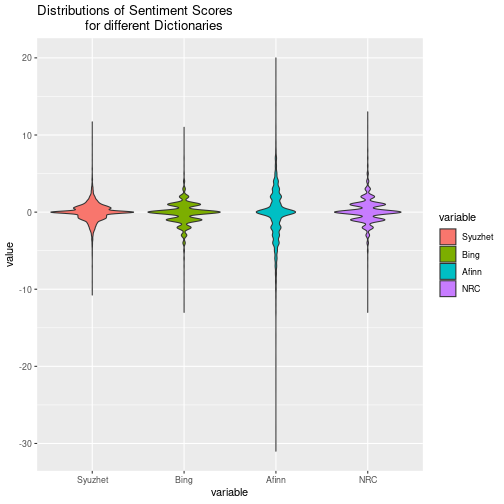
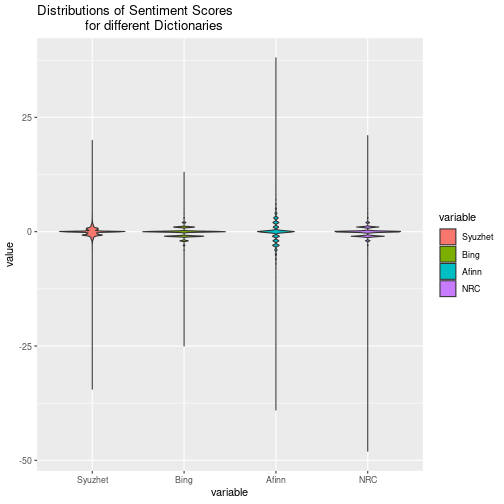
Adapted B2 to emoji

diff --git a/slides/B2_Sentiment_Analysis_of_User_Comments/B2_Sentiment_Analysis_of_User_Comments.html b/slides/B2_Sentiment_Analysis_of_User_Comments/B2_Sentiment_Analysis_of_User_Comments.html
@@ -103,16 +103,16 @@ lexicon::hash_sentiment_jockers[sample(1:10738,10),]
 
 ```
 ##                x     y
-##  1:    liability -0.50
-##  2:       eroded -0.60
-##  3:      nemesis -1.00
-##  4:       robber -0.50
-##  5:       matted -0.40
-##  6: rediscovered  0.25
-##  7:     unbelief -0.60
-##  8:     flexible  0.60
-##  9:     exhausts -0.80
-## 10:    ultimatum -0.50
+##  1:    affronted -1.00
+##  2:      digress -0.25
+##  3:        caged -0.80
+##  4:       gospel  0.10
+##  5:         yowl -0.40
+##  6:   implicated -0.25
+##  7: breakthrough  0.50
+##  8:   xenophobia -0.25
+##  9:     spoonfed -0.25
+## 10:      welcome  0.50
 ```
 
 ---
@@ -163,7 +163,7 @@ First of all, we load our preprocessed comments and try out the build in basic s
 
 ```r
 # loading data
-comments &lt;- readRDS("../../data/ParsedComments.rds")
+comments &lt;- readRDS("../../data/ParsedEmojiComments.rds")
 
 # loading package
 library(syuzhet)
@@ -192,7 +192,7 @@ summary(BasicSentiment)
 
 ```
 ##      Min.   1st Qu.    Median      Mean   3rd Qu.      Max. 
-## -10.75000  -0.50000   0.00000  -0.01116   0.60000  11.70000
+## -34.45000  -0.50000   0.00000  -0.07408   0.25000  19.95000
 ```
 
 Checking the documentation of the `get_sentiment()` function reveals that it can take different _methods_ as arguments. These methods correspond to different dictionaries and might yield different results. The function also allows to use a custom dictionary by providing a dataframe to the _lexicon_ argument
@@ -250,10 +250,10 @@ cor(Sentiments[,c(-5)])
 
 ```
 ##           Syuzhet      Bing     Afinn       NRC
-## Syuzhet 1.0000000 0.7501405 0.7421081 0.6528393
-## Bing    0.7501405 1.0000000 0.6706855 0.4647964
-## Afinn   0.7421081 0.6706855 1.0000000 0.4333834
-## NRC     0.6528393 0.4647964 0.4333834 1.0000000
+## Syuzhet 1.0000000 0.7932955 0.7529259 0.6997754
+## Bing    0.7932955 1.0000000 0.7142517 0.5828193
+## Afinn   0.7529259 0.7142517 1.0000000 0.5075283
+## NRC     0.6997754 0.5828193 0.5075283 1.0000000
 ```
 
 ---
@@ -500,11 +500,72 @@ strwrap(comments[order(comments$SentiDiff),c(2)][1:5],79)
 ```
 
 ```
-## [1] "@CottonCatt I wish"                                               
-## [2] "@SuddenReal Yeah but 'no' would be a real protest to the question"
-## [3] "Ive DEFINITELY had a group poop nightmare 😬"                     
-## [4] "Margarita M. Ugh I wish hahah"                                    
-## [5] "3:35 wtf? 😂😂😂"
+##  [1] "CRINGE CRINGE CRINGE CRINGE CRINGE CRINGE CRINGE CRINGE CRINGE CRINGE CRINGE"  
+##  [2] "CRINGE CRINGE CRINGE CRINGE CRINGE CRINGE CRINGE CRINGE CRINGE CRINGE CRINGE"  
+##  [3] "CRINGE CRINGE CRINGE CRINGE CRINGE CRINGE CRINGE CRINGE CRINGE CRINGE CRINGE"  
+##  [4] "CRINGE CRINGE CRINGE CRINGE CRINGE CRINGE CRINGE CRINGE CRINGE CRINGE CRINGE"  
+##  [5] "CRINGE CRINGE CRINGE CRINGE CRINGE CRINGE CRINGE CRINGE CRINGE CRINGE CRINGE"  
+##  [6] "CRINGE CRINGE CRINGE CRINGE CRINGE CRINGE CRINGE CRINGE CRINGE CRINGE CRINGE"  
+##  [7] "CRINGE CRINGE CRINGE CRINGE CRINGE CRINGE CRINGE CRINGE CRINGE CRINGE CRINGE"  
+##  [8] "CRINGE CRINGE CRINGE CRINGE CRINGE CRINGE CRINGE CRINGE CRINGE CRINGE CRINGE"  
+##  [9] "CRINGE CRINGE CRINGE CRINGE CRINGE CRINGE CRINGE CRINGE CRINGE CRINGE CRINGE"  
+## [10] "CRINGE"                                                                        
+## [11] "CRINGE CRINGE CRINGE CRINGE CRINGE CRINGE CRINGE CRINGE CRINGE CRINGE CRINGE"  
+## [12] "CRINGE CRINGE CRINGE CRINGE CRINGE CRINGE CRINGE CRINGE CRINGE CRINGE CRINGE"  
+## [13] "CRINGE CRINGE CRINGE CRINGE CRINGE CRINGE CRINGE CRINGE CRINGE CRINGE CRINGE"  
+## [14] "CRINGE CRINGE CRINGE CRINGE CRINGE CRINGE CRINGE CRINGE CRINGE CRINGE CRINGE"  
+## [15] "CRINGE CRINGE CRINGE CRINGE CRINGE I need some clorox"                         
+## [16] "This trailer gave me: Achondroplasia, Acne, AIDS, Albinism, Alcoholic"         
+## [17] "hepatitis, Allergy, Alopecia, Alzheimer's disease, Amblyopia, Amebiasis,"      
+## [18] "Anemia, Aneurdu, Anorexia, Anosmia, Anotia, Anthrax, Appendicitis, Apraxia,"   
+## [19] "Argyria, Arthritis, Aseptic meningitis, Asthenia, Asthma, Astigmatism,"        
+## [20] "Atherosclerosis, Athetosis, Atrophy, Bacterial meningitis, Barack Obama"       
+## [21] "syndrome, Beriberi, Biebertitis, Black Death, Botulism, Breast cancer,"        
+## [22] "Bronchitis, Brucellosis, Bubonic plague, Bunion, Bella killer, Calculi,"       
+## [23] "Campylobacter infection, Cancer, Candidiasis, Carbon monoxide poisoning,"      
+## [24] "Celiacs disease, Cerebral palsy, Chagas disease, Chalazion, Chancroid, Chavia,"
+## [25] "Cherubism, Chickenpox, Chlamydia, Chlamydia trachomatis, Cholera, Chordoma,"   
+## [26] "Chorea, Chronic fatigue syndrome, Circadian rhythm sleep disorder,"            
+## [27] "Coccidioidomycosis, Colitis, Common cold, Condyloma, Congestive heart disease,"
+## [28] "Coronary heart disease, Cowpox, Cretinism, Crohn's Disease, Dengue, Diabetes"  
+## [29] "mellitus, Diphtheria, Diarrhoea, Dehydration, Ear infection, Ebola,"           
+## [30] "Encephalitis, Emphysema, Epilepsy, Erectile dysfunction, Foodborne illness,"   
+## [31] "Gangrene, Gastroenteritis, Genital herpes, GERD, Goitre, Gonorrhea, Heart"     
+## [32] "disease, Hepatitis A, Hepatitis B, Hepatitis C, Hepatitis D, Hepatitis E,"     
+## [33] "Hepatitis F (Childhood Herpes), Histiocytosis (Childhood Cancer), HIV, Human"  
+## [34] "papillomavirus, Huntington's disease, Hypermetropia, Hyperopia,"               
+## [35] "Hyperthyroidism, Hypothermia, Hypothyroid, Hypotonia, Impetigo, Infertility,"  
+## [36] "Influenza, Interstitial cystitis, Iritis, Iron-deficiency anemia, Irritable"   
+## [37] "bowel syndrome, Ignious Syndrome, Jaundice, Keloids, Kuru, Kwashiorkor,"       
+## [38] "Laryngitis, Lead poisoning, Leaking scrotum syndrome, Legionellosis,"          
+## [39] "Leishmaniasis, Leprosy, Leptospirosis, Listeriosis, Leukemia, Lice, Loiasis,"  
+## [40] "Lung cancer, Lupus erythematosus, Lyme disease, Lymphogranuloma venereum,"     
+## [41] "Lymphoma, Malaria, Marburg fever, Measles, Melanoma, Melioidosis, Metastatic"  
+## [42] "cancer, Ménière's disease, Meningitis, Migraine, Mononucleosis, Multiple"      
+## [43] "myeloma, Multiple sclerosis, Mumps, Muscular dystrophy, Myasthenia gravis,"    
+## [44] "Myelitis, Myoclonus, Myopia, Myxedema, Morquio Syndrome, Mattticular syndrome,"
+## [45] "Neoplasm, Non-gonococcal urethritis, Necrotizing Fasciitis, Night blindness,"  
+## [46] "Obesity, One Infection, Osteoarthritis, Osteoporosis, Otitis, Palindromic"     
+## [47] "rheumatism, Paratyphoid fever, Parkinson's disease, Pelvic inflammatory"       
+## [48] "disease, Peritonitis, Periodontal disease, Pertussis, Phenylketonuria, Plague,"
+## [49] "Poliomyelitis, Porphyria, Progeria, Prostatitis, Psittacosis, Psoriasis, Pubic"
+## [50] "lice, Pulmonary embolism, Pilia, Q fever, Ques fever, Rabies, Repetitive"      
+## [51] "strain injury, Rheumatic fever, Rheumatic heart, Rheumatism, Rheumatoid"       
+## [52] "arthritis, Rickets, Rift Valley fever, Rocky Mountain spotted fever, Rubella," 
+## [53] "Salmonellosis, Sandy vagina, Scabies, Scarlet fever, Sciatica, Scleroderma,"   
+## [54] "Scrapie, Scurvy, Sepsis, Septicemia, SARS, Shigellosis, Shin splints,"         
+## [55] "Shingles, Sickle-cell anemia, Siderosis, SIDS, Silicosis, Smallpox,"           
+## [56] "Stevens-Johnson syndrome, Stomach flu, Stomach ulcers, Strabismus, Strep"      
+## [57] "throat, Streptococcal infection, Swag, Synovitis, Syphilis, Swine influenza,"  
+## [58] "Schizophrenia, Taeniasis, Tay-Sachs disease, Tennis elbow, Teratoma, Tetanus," 
+## [59] "Thalassaemia, Thrush, Thymoma, Tinnitus, Tonsillitis, Tooth decay, Toxic shock"
+## [60] "syndrome, Trichinosis, Trichomoniasis, Trisomy, Tuberculosis, Tularemia,"      
+## [61] "Tungiasis, Typhoid fever, Typhus, Tumor, Ulcerative colitis, Ulcers, Uremia,"  
+## [62] "Urticaria, Uveitis, Vaginal warts, Varicella, Varicose veins, Vasovagal"       
+## [63] "syncope, Vitiligo, Von Hippel-Lindau disease, Viral fever, Viral meningitis,"  
+## [64] "Warkany syndrome, Warts, Watkins, Yellow fever, Yersiniosis, Zygamantis"       
+## [65] "pain pain pain pain pain pain pain pain"                                       
+## [66] "Please don't use emojis but good joke"
 ```
 
 ---
@@ -532,7 +593,7 @@ sentiments based on word dictionaries due to multiple reasons:
 - Emoji can have multiple meanings: 🙏
 - They are highly context dependent: 🍆
 - They are culture-dependent: 🍑
-- They are person-dependent: 🤣 😂
+- They are person-dependent: 😆 😂
 
 
 ---
@@ -592,11 +653,11 @@ in comparison, our data looks like this:
 
 ```r
 # Example from our data 
-comments$Emoji[3138]
+comments$Emoji[85]
 ```
 
 ```
-## [1] "EMOJI_GrinningFace "
+## [1] "EMOJI_RollingOnTheFloorLaughing EMOJI_RollingOnTheFloorLaughing EMOJI_RollingOnTheFloorLaughing "
 ```
 
 ---
@@ -639,7 +700,7 @@ EmojiToks[130:131]
 ## [1] "emoji_facewithtearsofjoy" "emoji_facewithtearsofjoy"
 ## 
 ## text131 :
-## [1] "emoji_facewithtearsofjoy"
+## [1] "na"
 ```
 
 ---
@@ -663,7 +724,7 @@ EmojiToksSent[130:131]
 ## [1] "0.220968403775133" "0.220968403775133"
 ## 
 ## text131 :
-## [1] "0.220968403775133"
+## character(0)
 ```
 
 ---
@@ -693,7 +754,7 @@ MeanEmojiSentiment[130:131]
 
 ```
 ##   text130   text131 
-## 0.2209684 0.2209684
+## 0.2209684       NaN
 ```
   
 ---
@@ -715,7 +776,7 @@ cor(comments$ave_sentiment,
 ```
 
 ```
-## [1] 0.1707166
+## [1] 0.1423646
 ```
 
 
